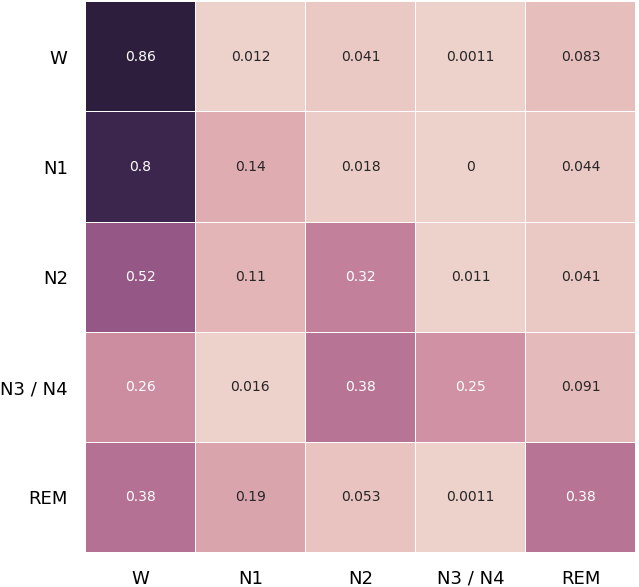
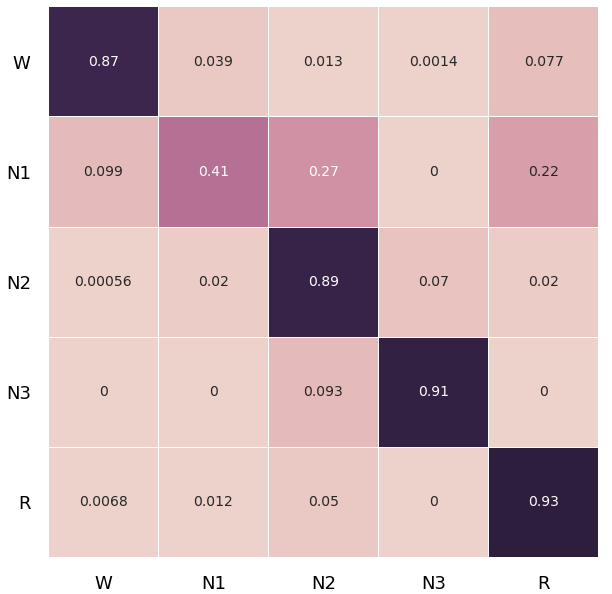
new plots

diff --git a/misc/misc.py b/misc/misc.py
@@ -1,0 +1,108 @@
+#!/usr/bin/env python3
+# -*- coding: utf-8 -*-
+"""
+Created on Sun Apr  4 14:40:15 2021
+
+@author: maelys.solal
+"""
+
+import numpy as np
+import matplotlib.pyplot as plt
+
+def plot_stacked_bar(data, series_labels, category_labels=None, 
+                     show_values=False, value_format="{}", y_label=None, 
+                     x_label=None, colors=None, grid=False, reverse=False):
+    """Plots a stacked bar chart with the data and labels provided.
+
+    Keyword arguments:
+    data            -- 2-dimensional numpy array or nested list
+                       containing data for each series in rows
+    series_labels   -- list of series labels (these appear in
+                       the legend)
+    category_labels -- list of category labels (these appear
+                       on the x-axis)
+    show_values     -- If True then numeric value labels will 
+                       be shown on each bar
+    value_format    -- Format string for numeric value labels
+                       (default is "{}")
+    y_label         -- Label for y-axis (str)
+    colors          -- List of color labels
+    grid            -- If True display grid
+    reverse         -- If True reverse the order that the
+                       series are displayed (left-to-right
+                       or right-to-left)
+    """
+
+    ny = len(data[0])
+    ind = list(range(ny))
+
+
+
+    data = np.array(data, dtype=int)
+
+    if reverse:
+        data = np.flip(data, axis=1)
+        category_labels = reversed(category_labels)
+
+
+
+    if category_labels:
+        plt.xticks(ind, category_labels)
+
+    if y_label:
+        plt.ylabel(y_label)
+    
+    if x_label: 
+        plt.xlabel(x_label)
+
+    plt.legend()
+
+    if grid:
+        plt.grid()
+
+    if show_values:
+        for axis in axes:
+            for bar in axis:
+                w, h = bar.get_width(), bar.get_height()
+                plt.text(bar.get_x() + w/2, bar.get_y() + h/2, 
+                         value_format.format(h), ha="center", 
+                         va="center")
+
+fig, ax = plt.subplots()
+
+series_labels = ['Training set', 'Validation set', 'Testing set']
+cat_labels = ('0', 'W', '1', '2', '3')
+x_label = 'Sleep stages'
+y_label = 'Number of samples'
+
+training = np.array([1846, 1254, 9376, 2796, 3576], dtype=int)
+validation = np.array([562, 385, 3109, 686, 881], dtype=int)
+testing = np.array([1471, 477, 3589, 1083, 1417], dtype=int)
+data = np.array([training, validation, testing], dtype=int)
+
+nb_cat = len(cat_labels)
+x = np.arange(nb_cat)
+# categories = {n:cat for (n, cat) in zip(x, cat_labels)}
+
+axes = []
+cum_size = np.zeros(nb_cat)
+
+for i, row_data in enumerate(data):
+    axes.append(ax.bar(x, row_data, bottom=cum_size, label=series_labels[i]))
+    cum_size += row_data
+
+ax.set_xlabel(x_label)
+# ax.set_xticks(x)
+ax.set_xticklabels(cat_labels)
+ax.set_ylabel(y_label)
+
+ax.bar_label(axes[0], label_type='center')
+ax.bar_label(axes[1], label_type='center')
+ax.bar_label(axes[2], label_type='center')
+
+ax.legend()
+
+# plt.savefig('bar.png')
+fig.tight_layout()
+plt.title('Sleep stages imbalance in MASS dataset')
+plt.show()

diff --git a/misc/plots.py b/misc/plots.py
@@ -1,0 +1,47 @@
+#!/usr/bin/env python3
+# -*- coding: utf-8 -*-
+"""
+Created on Sun Apr  4 20:17:13 2021
+
+@author: maelys.solal
+"""
+
+import pandas as pd
+import seaborn as sns
+import matplotlib.pyplot as plt
+
+cmap = sns.cubehelix_palette(50)
+classes = ['W', 'N1', 'N2', 'N3', 'R'] 
+
+columns = ['Precision', 'Recall', 'F1-score']
+rows = ['W (4659)', 
+        'N1 (2347)', 
+        'N2 (5329)', 
+        'N3 / N4 (673)', 
+        'R (1993)', 
+        'accuracy (15001)', 
+        'macro_avg (15001)',
+        'weighted_avg (15001)']
+
+# MASS - SP
+# conf_mat = [[1311, 56, 20, 1, 29], 
+#             [27, 228, 127, 0, 95], 
+#             [9, 81, 3178, 237, 84], 
+#             [0, 0, 112, 971, 0], 
+#             [9, 63, 74, 0, 1325]]
+conf_mat = [[.93, .04, .01, 0, .02], 
+            [.06, .48, .27, 0, .20], 
+            [0, .02, .89, 0, .02], 
+            [0, 0, .1, .9, 0],
+            [.01, .04, .05, 0, .9]]
+
+confusion_matrix = pd.DataFrame(conf_mat, columns=classes, index=classes)
+plt.figure()
+ax = sns.heatmap(confusion_matrix, annot=True, 
+                 cmap=cmap, square=True, cbar=True)
+ax.tick_params(left=False, bottom=False)
+plt.title('Normalised confusion matrix')
+plt.yticks(rotation=0)
+plt.xlabel('Predicted labels')
+plt.ylabel('True labels')
+plt.show()
